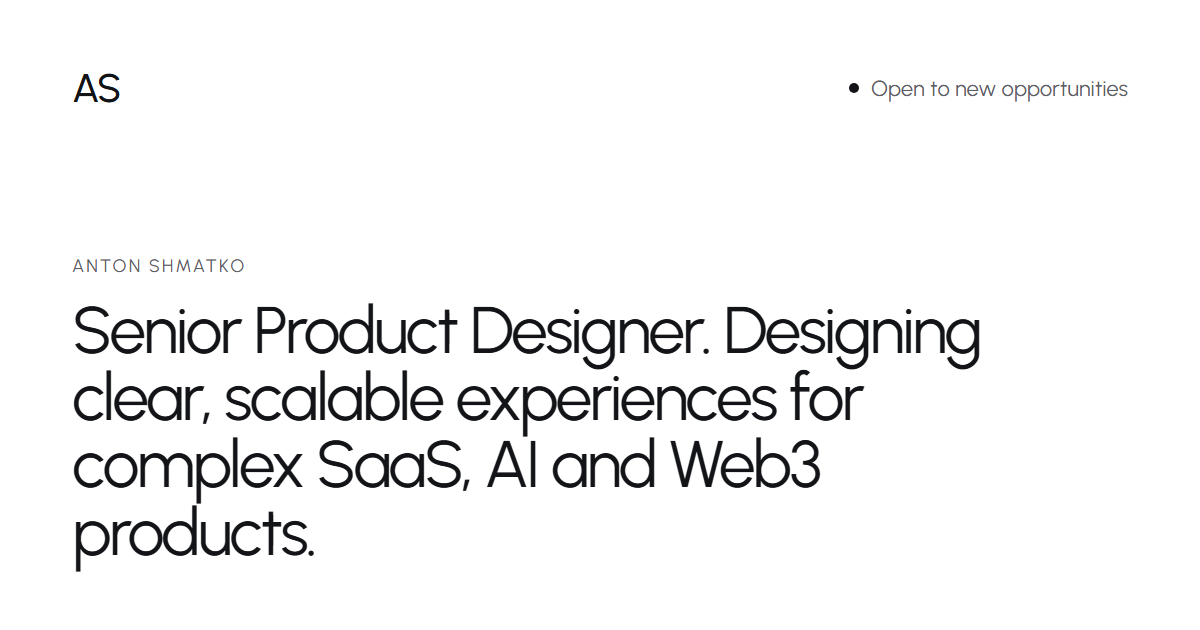
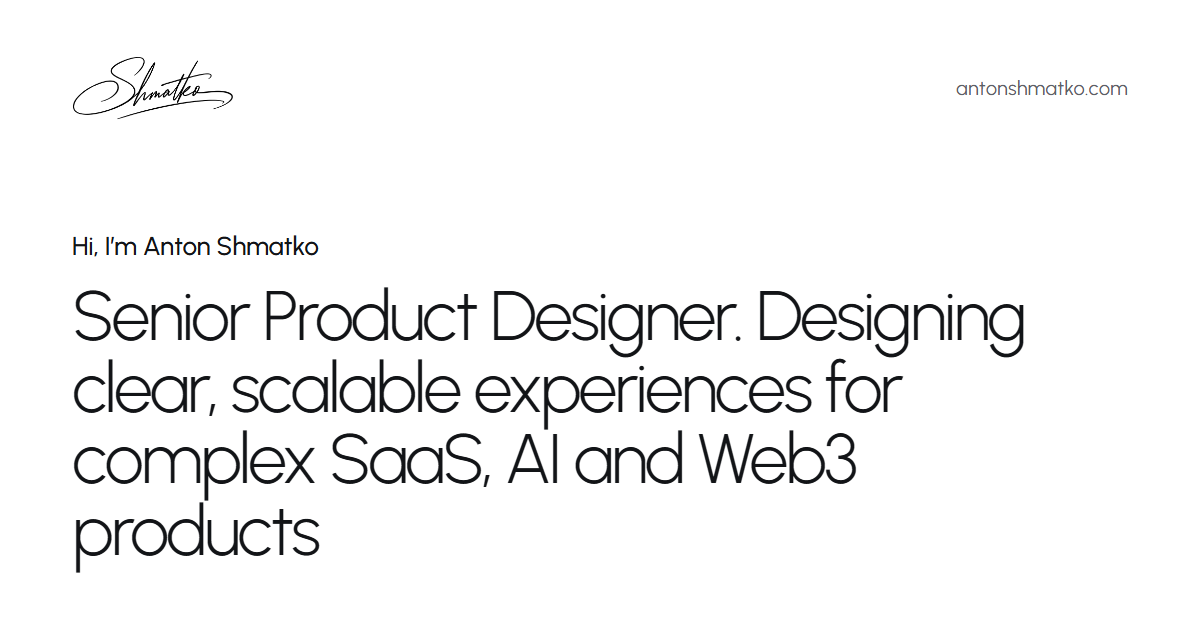
New link-preview image matching the current site

Changed region(s): [[0.0617, 0.3619, 0.8633, 0.9048], [0.0617, 0.0905, 0.185, 0.181], [0.7092, 0.1206, 0.9558, 0.1508]]

diff --git a/work/ultimate-champions.html b/work/ultimate-champions.html
@@ -13,7 +13,7 @@
 <meta property="og:url" content="https://www.antonshmatko.com/work/ultimate-champions">
 <meta property="og:title" content="Ultimate Champions — Case study — Anton Shmatko">
 <meta property="og:description" content="A fantasy sports experience that brings fans closer to the game. The website connects the excitement of collecting player cards with a clear introduction to playing, managing a team, and competing.">
-<meta property="og:image" content="https://www.antonshmatko.com/assets/og.png">
+<meta property="og:image" content="https://www.antonshmatko.com/assets/og.png?v=2">
 <meta property="og:image:width" content="1200">
 <meta property="og:image:height" content="630">
 <meta name="twitter:card" content="summary_large_image">

diff --git a/work/muso-ai.html b/work/muso-ai.html
@@ -13,7 +13,7 @@
 <meta property="og:url" content="https://www.antonshmatko.com/work/muso-ai">
 <meta property="og:title" content="Muso.AI — Case study — Anton Shmatko">
 <meta property="og:description" content="A music credits and analytics platform for the people behind the recordings. I contributed to its design system, helping create a more consistent product experience and a reusable foundation for new features.">
-<meta property="og:image" content="https://www.antonshmatko.com/assets/og.png">
+<meta property="og:image" content="https://www.antonshmatko.com/assets/og.png?v=2">
 <meta property="og:image:width" content="1200">
 <meta property="og:image:height" content="630">
 <meta name="twitter:card" content="summary_large_image">

diff --git a/work/furbnow.html b/work/furbnow.html
@@ -13,7 +13,7 @@
 <meta property="og:url" content="https://www.antonshmatko.com/work/furbnow">
 <meta property="og:title" content="Furbnow — Case study — Anton Shmatko">
 <meta property="og:description" content="A home energy retrofit service that helps homeowners plan improvements with confidence. I worked across the digital product and website to make a complex service easier to understand and navigate.">
-<meta property="og:image" content="https://www.antonshmatko.com/assets/og.png">
+<meta property="og:image" content="https://www.antonshmatko.com/assets/og.png?v=2">
 <meta property="og:image:width" content="1200">
 <meta property="og:image:height" content="630">
 <meta name="twitter:card" content="summary_large_image">

diff --git a/work/trumpet.html b/work/trumpet.html
@@ -13,7 +13,7 @@
 <meta property="og:url" content="https://www.antonshmatko.com/work/trumpet">
 <meta property="og:title" content="Trumpet — Case study — Anton Shmatko">
 <meta property="og:description" content="A B2B sales enablement platform. I built a comprehensive design system and a reusable filtering framework, giving the team consistent foundations that could be applied across the product.">
-<meta property="og:image" content="https://www.antonshmatko.com/assets/og.png">
+<meta property="og:image" content="https://www.antonshmatko.com/assets/og.png?v=2">
 <meta property="og:image:width" content="1200">
 <meta property="og:image:height" content="630">
 <meta name="twitter:card" content="summary_large_image">

diff --git a/work/falc-ai.html b/work/falc-ai.html
@@ -13,7 +13,7 @@
 <meta property="og:url" content="https://www.antonshmatko.com/work/falc-ai">
 <meta property="og:title" content="Falc AI — Case study — Anton Shmatko">
 <meta property="og:description" content="An AI-powered store analytics platform. I helped turn complex data and administrative workflows into a clearer interface for understanding store performance and managing team access.">
-<meta property="og:image" content="https://www.antonshmatko.com/assets/og.png">
+<meta property="og:image" content="https://www.antonshmatko.com/assets/og.png?v=2">
 <meta property="og:image:width" content="1200">
 <meta property="og:image:height" content="630">
 <meta name="twitter:card" content="summary_large_image">

diff --git a/work/mava-ai.html b/work/mava-ai.html
@@ -13,7 +13,7 @@
 <meta property="og:url" content="https://www.antonshmatko.com/work/mava-ai">
 <meta property="og:title" content="Mava AI — Case study — Anton Shmatko">
 <meta property="og:description" content="An AI-powered customer support platform. I helped bring clarity and consistency to its chat experience across web and mobile, supported by a shared design system.">
-<meta property="og:image" content="https://www.antonshmatko.com/assets/og.png">
+<meta property="og:image" content="https://www.antonshmatko.com/assets/og.png?v=2">
 <meta property="og:image:width" content="1200">
 <meta property="og:image:height" content="630">
 <meta name="twitter:card" content="summary_large_image">

diff --git a/work/lumi-ai.html b/work/lumi-ai.html
@@ -13,7 +13,7 @@
 <meta property="og:url" content="https://www.antonshmatko.com/work/lumi-ai">
 <meta property="og:title" content="Lumi AI — Case study — Anton Shmatko">
 <meta property="og:description" content="An AI analytics platform that helps retail and supply chain teams explore business data, investigate issues, and turn answers into shared workspaces.">
-<meta property="og:image" content="https://www.antonshmatko.com/assets/og.png">
+<meta property="og:image" content="https://www.antonshmatko.com/assets/og.png?v=2">
 <meta property="og:image:width" content="1200">
 <meta property="og:image:height" content="630">
 <meta name="twitter:card" content="summary_large_image">

diff --git a/about.html b/about.html
@@ -13,7 +13,7 @@
 <meta property="og:url" content="https://www.antonshmatko.com/about">
 <meta property="og:title" content="About — Anton Shmatko">
 <meta property="og:description" content="Anton Shmatko is a Senior Product Designer with 9 years of experience designing web and mobile products for SaaS, AI, Web3, marketplaces and enterprise platforms.">
-<meta property="og:image" content="https://www.antonshmatko.com/assets/og.png">
+<meta property="og:image" content="https://www.antonshmatko.com/assets/og.png?v=2">
 <meta property="og:image:width" content="1200">
 <meta property="og:image:height" content="630">
 <meta name="twitter:card" content="summary_large_image">

diff --git a/index.html b/index.html
@@ -13,7 +13,7 @@
 <meta property="og:url" content="https://www.antonshmatko.com/">
 <meta property="og:title" content="Anton Shmatko — Senior Product Designer">
 <meta property="og:description" content="Anton Shmatko — Senior Product Designer with 9 years of experience in SaaS, AI, Web3, marketplaces and enterprise platforms.">
-<meta property="og:image" content="https://www.antonshmatko.com/assets/og.png">
+<meta property="og:image" content="https://www.antonshmatko.com/assets/og.png?v=2">
 <meta property="og:image:width" content="1200">
 <meta property="og:image:height" content="630">
 <meta name="twitter:card" content="summary_large_image">

diff --git a/work/index.html b/work/index.html
@@ -13,7 +13,7 @@
 <meta property="og:url" content="https://www.antonshmatko.com/work">
 <meta property="og:title" content="Work — Anton Shmatko">
 <meta property="og:description" content="Selected product design case studies by Anton Shmatko: AI analytics, customer support, home energy and music platforms.">
-<meta property="og:image" content="https://www.antonshmatko.com/assets/og.png">
+<meta property="og:image" content="https://www.antonshmatko.com/assets/og.png?v=2">
 <meta property="og:image:width" content="1200">
 <meta property="og:image:height" content="630">
 <meta name="twitter:card" content="summary_large_image">

diff --git a/privacy.html b/privacy.html
@@ -13,7 +13,7 @@
 <meta property="og:url" content="https://www.antonshmatko.com/privacy">
 <meta property="og:title" content="Privacy Policy — Anton Shmatko">
 <meta property="og:description" content="How information may be processed when you visit Anton Shmatko’s portfolio website.">
-<meta property="og:image" content="https://www.antonshmatko.com/assets/og.png">
+<meta property="og:image" content="https://www.antonshmatko.com/assets/og.png?v=2">
 <meta property="og:image:width" content="1200">
 <meta property="og:image:height" content="630">
 <meta name="twitter:card" content="summary_large_image">
